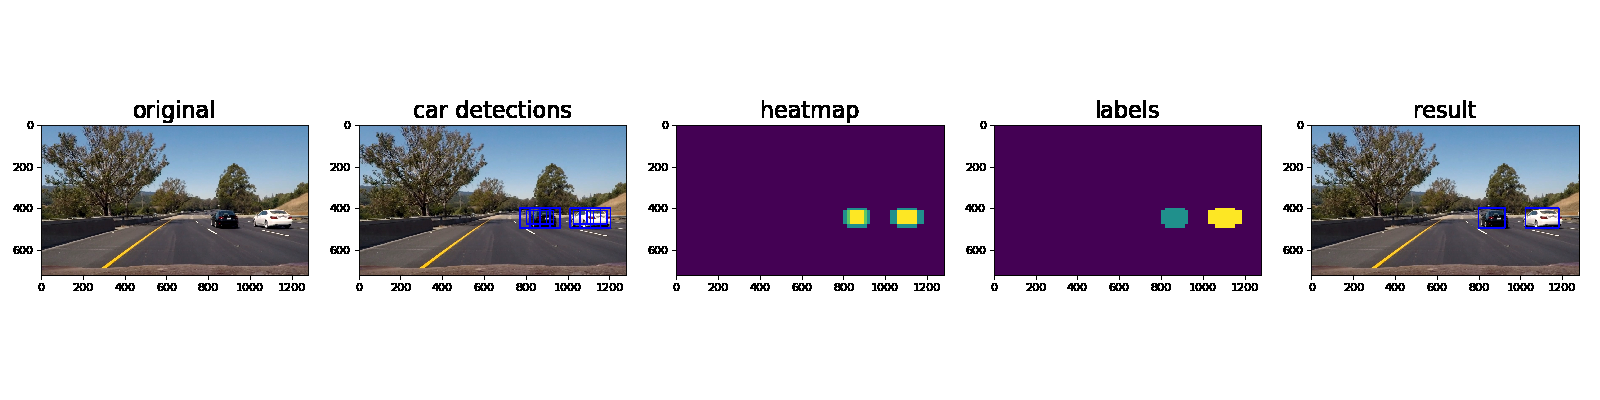
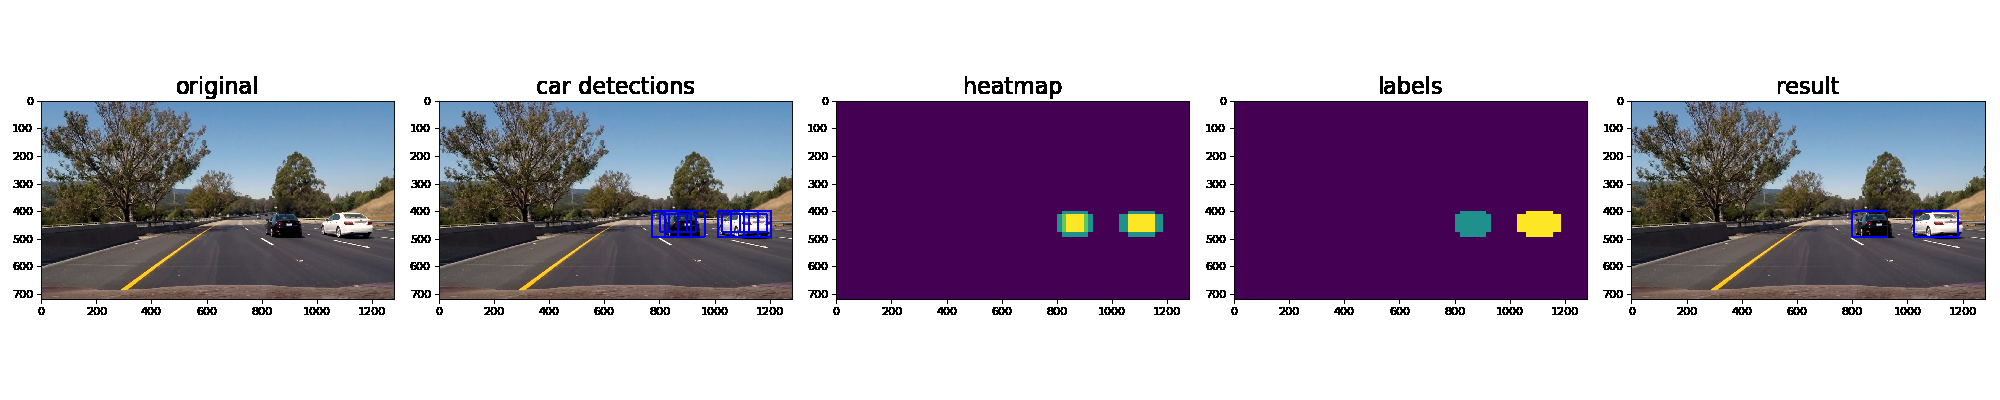
improved images size

Changed region(s): [[0.0, 0.18, 1.0, 0.81]]

diff --git a/tests/test_car_finder_pipeline.py b/tests/test_car_finder_pipeline.py
@@ -38,13 +38,13 @@ class TestCarFinderPipeline(unittest.TestCase):
         for i,img in enumerate(imgs):
             draw_img, labels, heatmap, boxed_image = p.process_verbose(np.copy(img))
         
-            out = image_util.arrangeImages([img, boxed_image, heatmap, labels[0], draw_img], ["original","car detections", "heatmap", "labels", "result"], figsize=(4,1))
+            out = image_util.arrangeImages([img, boxed_image, heatmap, labels[0], draw_img], ["original","car detections", "heatmap", "labels", "result"], figsize=(5,1))
             image_util.saveImage(out, TEST_OUT_DIR+"/readme_videoprocess"+str(i)+".png")
         p = pipeline.Pipeline(9)
         imgs = image_util.loadImagesRGB(IMG_DIR2)
         for i,img in enumerate(imgs):
             draw_img, labels, heatmap, boxed_image = p.process_verbose(np.copy(img))
-            out = image_util.arrangeImages([img, boxed_image, heatmap, labels[0], draw_img], ["original","car detections", "heatmap", "labels", "result"], figsize=(4,1))
+            out = image_util.arrangeImages([img, boxed_image, heatmap, labels[0], draw_img], ["original","car detections", "heatmap", "labels", "result"], figsize=(5,1))
             image_util.saveImage(out, TEST_OUT_DIR+"/readme_videoprocess_with_history"+str(i)+".png")
 
     def test_readme_video_images(self) :
@@ -54,7 +54,7 @@ class TestCarFinderPipeline(unittest.TestCase):
         for i,img in enumerate(imgs):
             draw_img, labels, heatmap, boxed_image = p.process_verbose(np.copy(img))
             
-            out = image_util.arrangeImages([img, boxed_image, heatmap, labels[0], draw_img], ["original","car detections", "heatmap", "labels", "result"], figsize=(4,1))
+            out = image_util.arrangeImages([img, boxed_image, heatmap, labels[0], draw_img], ["original","car detections", "heatmap", "labels", "result"], figsize=(5,1))
             image_util.saveImage(out, TEST_OUT_DIR+"/readme_test_images_process"+str(i)+".png")
 
 
